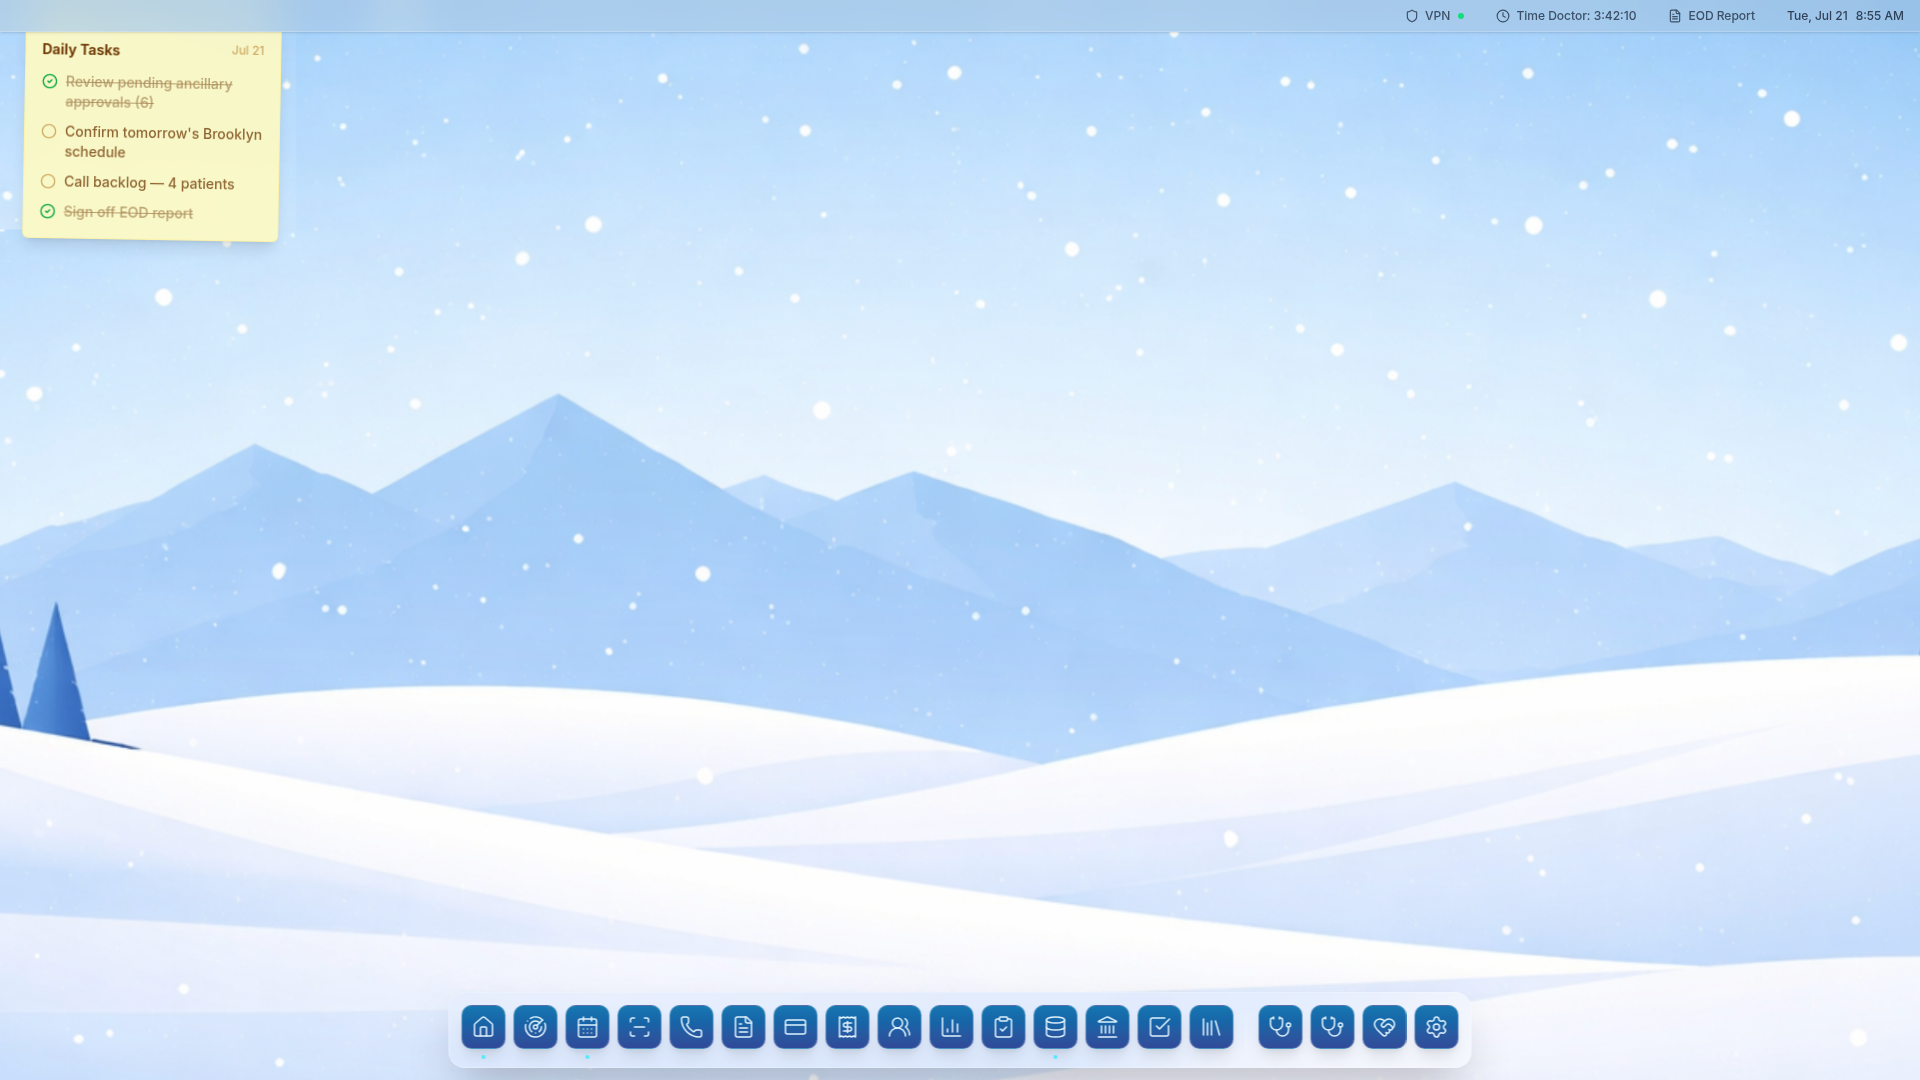
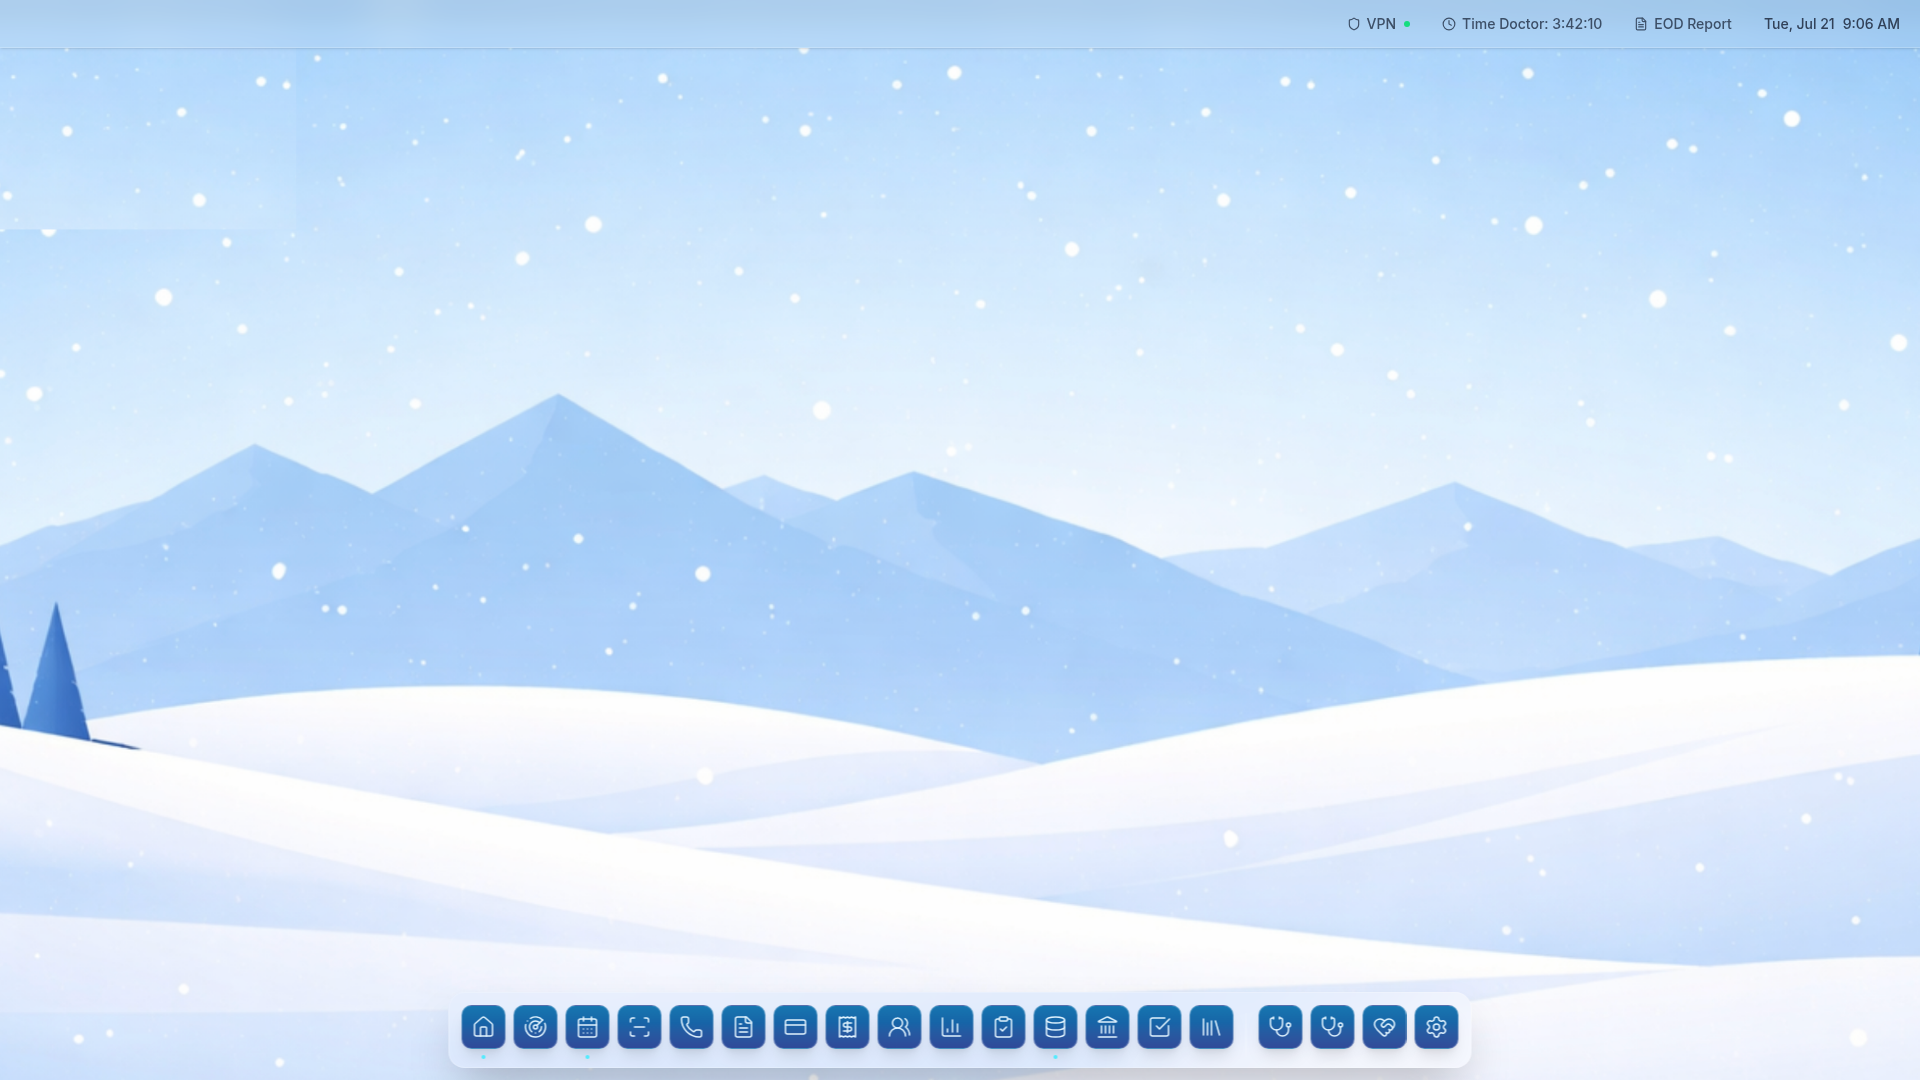
Make the winter desktop an immersive alternate home page
Introduces a new `/winter-home` route, making the winter desktop the primary landing page by conditionally hiding the TopBanner and GlobalFloatingDock components. Includes a static winter wallpaper image and associated falling snow animation.

Replit-Commit-Author: Agent
Replit-Commit-Session-Id: c12a5c9f-1bd8-4be4-b0b6-708b49fc1695
Replit-Commit-Checkpoint-Type: full_checkpoint
Replit-Commit-Event-Id: f6534ed7-3bc0-4269-aa16-66b30b69d48d
Replit-Commit-Screenshot-Url: https://storage.googleapis.com/screenshot-production-us-central1/b21176dd-0ceb-4762-ade6-ccb10fdb1fcc/c12a5c9f-1bd8-4be4-b0b6-708b49fc1695/EHkgzJK
Replit-Helium-Checkpoint-Created: true

Changed region(s): [[0.0, 0.0306, 0.1562, 0.2444], [0.7188, 0.0, 1.0, 0.0306]]

diff --git a/client/src/pages/winter-home.tsx b/client/src/pages/winter-home.tsx
@@ -1,0 +1,139 @@
+import { useState, useEffect } from "react";
+import { Link, useLocation } from "wouter";
+import { useQuery } from "@tanstack/react-query";
+import { Shield, Clock, FileText } from "lucide-react";
+import { NAV_ITEMS } from "@/components/GlobalNav";
+import type { AuthUser } from "@/App";
+
+export default function WinterHomePage({ user }: { user?: AuthUser }) {
+  const [location] = useLocation();
+  const [time, setTime] = useState("");
+  const [date, setDate] = useState("");
+  const userRole = user?.role ?? "clinician";
+
+  useEffect(() => {
+    const updateTime = () => {
+      const now = new Date();
+      setTime(now.toLocaleTimeString("en-US", { hour: "numeric", minute: "2-digit" }));
+      setDate(now.toLocaleDateString("en-US", { weekday: "short", month: "short", day: "numeric" }));
+    };
+    updateTime();
+    const interval = setInterval(updateTime, 1000);
+    return () => clearInterval(interval);
+  }, []);
+
+  const { data: todaySummary } = useQuery<{ patientCount: number; batchCount: number }>({
+    queryKey: ["/api/schedule/today-summary"],
+    refetchInterval: 60_000,
+  });
+
+  const visibleItems = NAV_ITEMS.filter((item) => item.roles.includes(userRole));
+  const mainItems = visibleItems.filter(
+    (i) => !["/clinician-portal", "/technician-portal", "/liaison-technician-portal", "/admin/settings"].includes(i.href),
+  );
+  const portalItems = visibleItems.filter(
+    (i) => ["/clinician-portal", "/technician-portal", "/liaison-technician-portal", "/admin/settings"].includes(i.href),
+  );
+
+  const renderDockItem = (item: (typeof NAV_ITEMS)[number]) => {
+    const isActive = location === item.href || location.startsWith(item.href + "/");
+    return (
+      <Link key={item.href} href={item.href}>
+        <div
+          className="relative group flex flex-col items-center cursor-pointer"
+          data-testid={`dock-item-${item.href.replace(/\//g, "")}`}
+        >
+          <div className="absolute -top-10 opacity-0 group-hover:opacity-100 transition-opacity bg-black/70 backdrop-blur text-white text-[11px] px-2.5 py-1 rounded-md whitespace-nowrap pointer-events-none z-10">
+            {item.label}
+          </div>
+          <div className="w-11 h-11 rounded-[10px] flex items-center justify-center shadow-lg transform transition-all duration-200 origin-bottom group-hover:scale-[1.3] group-hover:-translate-y-2 border border-white/20 bg-gradient-to-b from-sky-700/90 to-blue-900/90 group-hover:from-cyan-400 group-hover:to-teal-500 group-hover:shadow-[0_0_18px_rgba(45,212,191,0.8)] group-hover:border-cyan-200/60">
+            <item.Icon className="w-6 h-6 text-sky-100 group-hover:text-white transition-colors" strokeWidth={1.5} />
+          </div>
+          <div className={`w-1 h-1 rounded-full mt-1.5 ${isActive ? "bg-cyan-300" : "bg-transparent"}`} />
+        </div>
+      </Link>
+    );
+  };
+
+  return (
+    <div className="relative h-full w-full overflow-hidden font-sans select-none">
+      {/* Wallpaper */}
+      <div
+        className="absolute inset-0 bg-cover bg-center bg-no-repeat"
+        style={{ backgroundImage: 'url("/winter-wallpaper.png")' }}
+      />
+
+      {/* Falling snow */}
+      <style
+        dangerouslySetInnerHTML={{
+          __html: `
+          @keyframes wh-snowfall {
+            0% { transform: translateY(-10vh) translateX(0); opacity: 1; }
+            100% { transform: translateY(110vh) translateX(20px); opacity: 0.3; }
+          }
+          .wh-snowflake {
+            position: absolute;
+            background: white;
+            border-radius: 50%;
+            filter: blur(1px);
+            animation: wh-snowfall linear infinite;
+          }
+          `,
+        }}
+      />
+      {[...Array(40)].map((_, i) => (
+        <div
+          key={i}
+          className="wh-snowflake"
+          style={{
+            left: `${(i * 61) % 100}vw`,
+            animationDuration: `${((i * 7) % 50) / 10 + 5}s`,
+            animationDelay: `-${(i * 13) % 10}s`,
+            opacity: ((i * 17) % 50) / 100 + 0.3,
+            width: `${((i * 11) % 30) / 10 + 2}px`,
+            height: `${((i * 11) % 30) / 10 + 2}px`,
+          }}
+        />
+      ))}
+
+      {/* Glass status bar */}
+      <div className="absolute top-0 left-0 right-0 z-40 flex h-12 items-center justify-between bg-white/10 px-5 backdrop-blur-xl border-b border-white/20 text-sm font-medium text-slate-700 shadow-sm">
+        <div className="flex items-center gap-3">
+          {todaySummary && (
+            <span className="opacity-80" data-testid="text-today-summary">
+              Today: {todaySummary.patientCount} patients · {todaySummary.batchCount} schedules
+            </span>
+          )}
+        </div>
+        <div className="flex items-center gap-4">
+          <div className="flex items-center gap-1.5 opacity-90 cursor-default hover:bg-white/20 px-2 py-0.5 rounded transition-colors">
+            <Shield className="w-4 h-4" />
+            <span>VPN</span>
+            <div className="w-1.5 h-1.5 rounded-full bg-green-500 ml-0.5" />
+          </div>
+          <div className="flex items-center gap-1.5 opacity-90 cursor-default hover:bg-white/20 px-2 py-0.5 rounded transition-colors">
+            <Clock className="w-4 h-4" />
+            <span>Time Doctor</span>
+          </div>
+          <div className="flex items-center gap-1.5 opacity-90 cursor-default hover:bg-white/20 px-2 py-0.5 rounded transition-colors">
+            <FileText className="w-4 h-4" />
+            <span>EOD Report</span>
+          </div>
+          <div className="flex items-center gap-2 pl-2" data-testid="text-clock">
+            <span>{date}</span>
+            <span>{time}</span>
+          </div>
+        </div>
+      </div>
+
+      {/* Dock */}
+      <div className="absolute bottom-3 left-1/2 -translate-x-1/2 z-40">
+        <div className="flex items-end gap-2 px-3 pb-2 pt-3 bg-white/10 backdrop-blur-xl border border-white/20 shadow-2xl rounded-2xl">
+          {mainItems.map(renderDockItem)}
+          {portalItems.length > 0 && <div className="w-px h-11 bg-white/30 mx-1 self-start mt-2" />}
+          {portalItems.map(renderDockItem)}
+        </div>
+      </div>
+    </div>
+  );
+}

diff --git a/client/src/App.tsx b/client/src/App.tsx
@@ -8,6 +8,7 @@ import { SidebarProvider } from "@/components/ui/sidebar";
 import NotFound from "@/pages/not-found";
 import Home from "@/pages/home";
 import HomePreview from "@/pages/home-preview";
+import WinterHomePage from "@/pages/winter-home";
 import MissionControlPage from "@/pages/mission-control";
 import ImagingCentralPage from "@/pages/imaging-central";
 import ClinicAnalyticsPage from "@/pages/clinic-analytics";
@@ -79,13 +80,14 @@ function RoleGuard({ user, roles, children }: { user: AuthUser; roles: string[];
 function AuthenticatedApp({ user, onLogout }: { user: AuthUser; onLogout: () => void }) {
   const [currentPath] = useLocation();
   const showGlobalNav = shouldShowGlobalNav(currentPath);
+  const isWinterHome = currentPath === "/winter-home" || currentPath.startsWith("/winter-home/");
   return (
     <Switch>
       <Route path="/schedule/:id" component={SharedSchedule} />
       <Route>
         <div className="flex flex-col h-screen w-full overflow-hidden">
-          <TopBanner user={user} onLogout={onLogout} />
-          <GlobalFloatingDock />
+          {!isWinterHome && <TopBanner user={user} onLogout={onLogout} />}
+          {!isWinterHome && <GlobalFloatingDock />}
           <div className="flex flex-1 min-h-0 min-w-0">
             {showGlobalNav && <GlobalNav user={user} onLogout={onLogout} />}
             <div className="flex flex-col flex-1 min-w-0 min-h-0">
@@ -104,6 +106,9 @@ function AuthenticatedApp({ user, onLogout }: { user: AuthUser; onLogout: () => 
                   <SidebarProvider defaultOpen={false} style={SIDEBAR_STYLE}>
                     <Home />
                   </SidebarProvider>
+                </Route>
+                <Route path="/winter-home">
+                  <WinterHomePage user={user} />
                 </Route>
                 <Route path="/home-preview">
                   <SidebarProvider defaultOpen={false} style={SIDEBAR_STYLE}>

diff --git a/client/src/components/GlobalNav.tsx b/client/src/components/GlobalNav.tsx
@@ -26,14 +26,14 @@ import {
 import { useState, useEffect } from "react";
 import type { AuthUser } from "@/App";
 
-type NavItemDef = {
+export type NavItemDef = {
   href: string;
   label: string;
   Icon: React.ComponentType<{ className?: string; strokeWidth?: number | string }>;
   roles: string[];
 };
 
-const NAV_ITEMS: NavItemDef[] = [
+export const NAV_ITEMS: NavItemDef[] = [
   { href: "/home",             label: "Home",             Icon: HomeIcon,     roles: ["admin", "clinician", "scheduler"] },
   { href: "/mission-control",  label: "Mission Control",  Icon: Radar,        roles: ["admin"] },
   { href: "/schedule",         label: "Schedule",         Icon: CalendarDays, roles: ["admin", "clinician", "scheduler"] },
